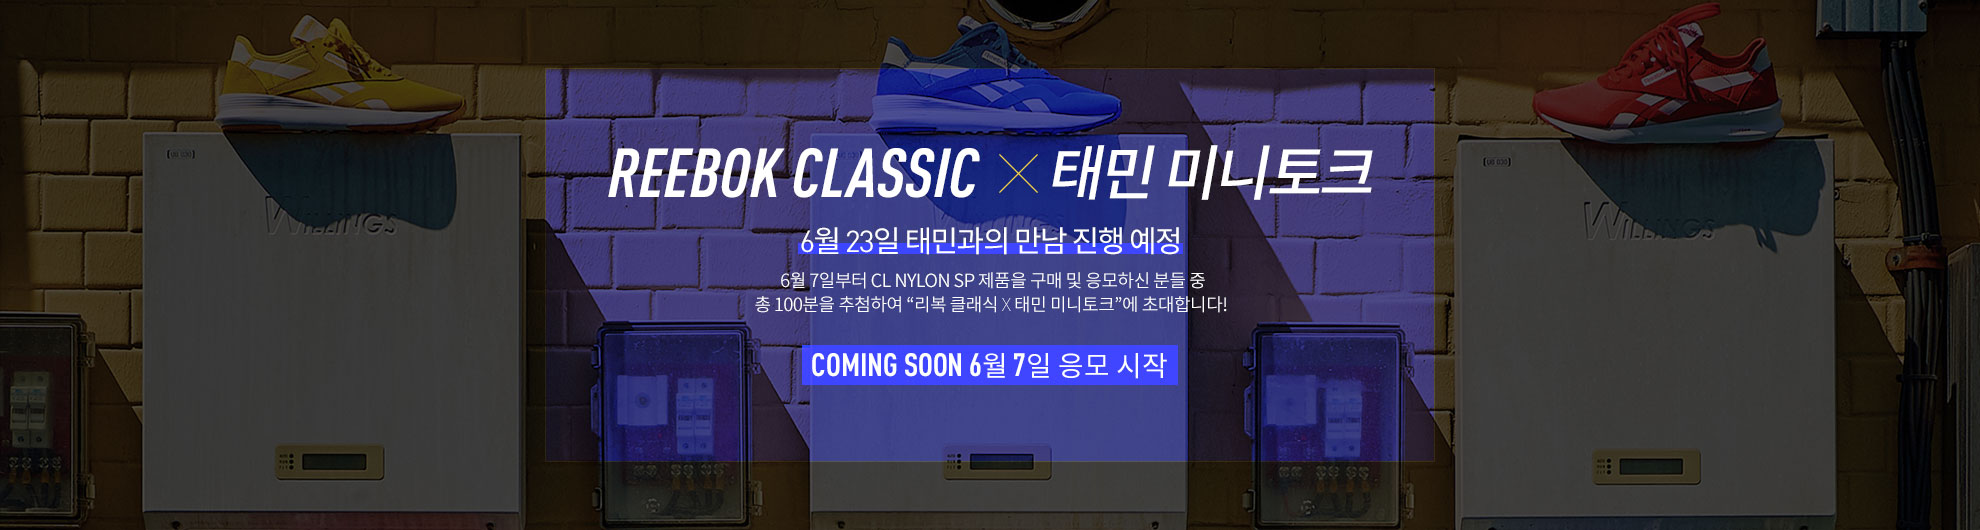
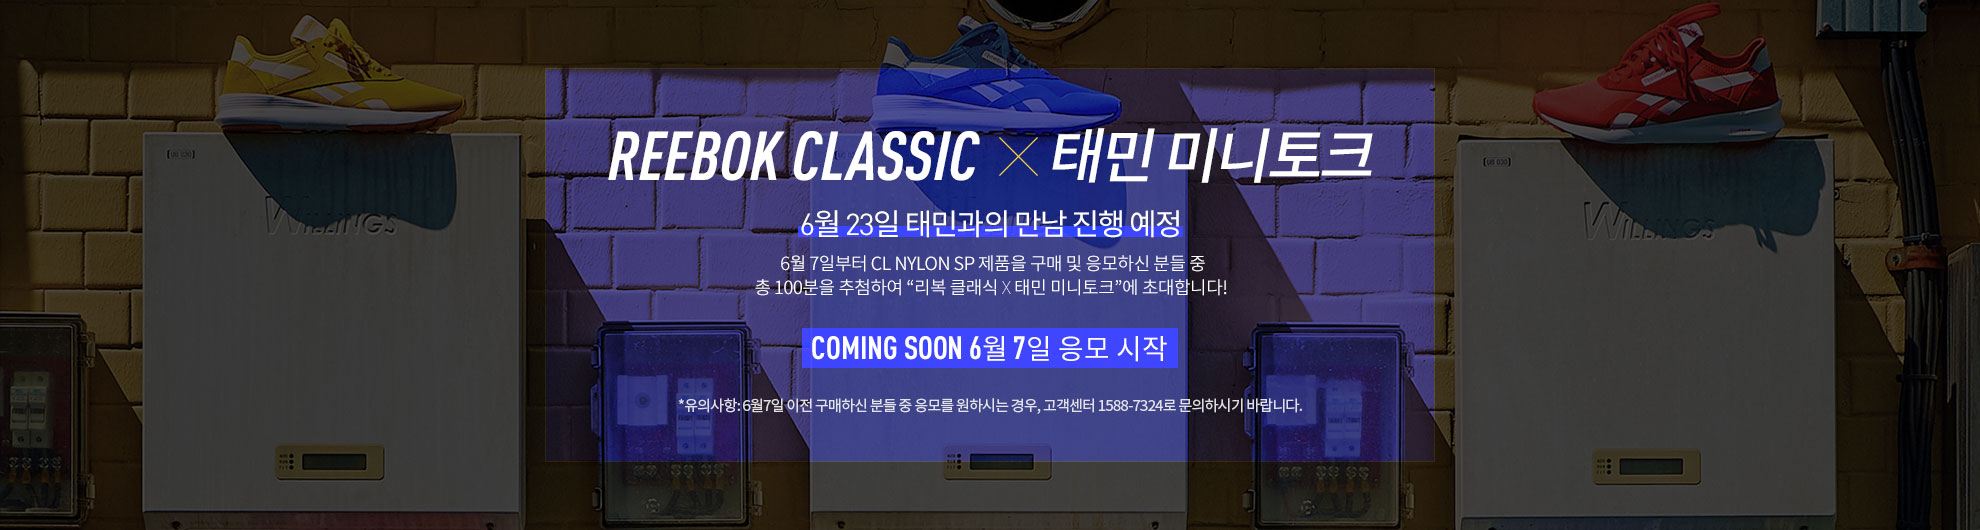
-

Changed region(s): [[0.3081, 0.2415, 0.7086, 0.7849]]

diff --git a/app/html/reebok/event/about/campaign/classic/nylon/build/index.html b/app/html/reebok/event/about/campaign/classic/nylon/build/index.html
@@ -2,7 +2,7 @@
 <html lang="ko" xml:lang="ko" id="test">
 
 <head>
-
+	
 	<meta http-equiv="Content-Type" content="text/html; charset=utf-8" />
 	<title>리복 공식 온라인 스토어 메인페이지</title>
 	<link rel="stylesheet" type="text/css" href="/css/reebok/reebok.css" />
@@ -723,6 +723,10 @@
 						</div>
 					</div>
 
+					<div class="event scrollbox">
+						<div class="bg"><img src="/images/reebok/event/about/classic/nylon/event.jpg" alt=""></div>
+					</div>
+
 					<div class="title"><img src="/images/reebok/event/about/classic/nylon/title.png" alt=""></div>
 
 					<div class="instagram_wrap scrollbox">
@@ -732,13 +736,13 @@
 							<div class="insta_slider_wrap">
 								<div class="insta_slider" id="insta_slider">
 									<ul class="slide">
-										<li class="">
+										<li class="on">
 											<img src="/images/reebok/event/about/classic/nylon/slide1.png" alt="">
 											<span style="top:219px;left:356px;"><em>1</em></span>
 											<span style="top:331px;left:207px;"><em>2</em></span>
 											<span style="top:636px;left:348px;"><em>3</em></span>
 										</li>
-										<li class="on">
+										<li>
 											<img src="/images/reebok/event/about/classic/nylon/slide2.png" alt="">
 											<span style="top:191px;left:181px;"><em>1</em></span>
 											<span style="top:647px;left:362px;"><em>2</em></span>
@@ -760,7 +764,7 @@
 							</div>
 
 							<div class="prd_list">
-								<div class="prd_wrap ">
+								<div class="prd_wrap on">
 									<div class="prd">
 										<a href="http://shop.reebok.co.kr/RPF020401.action?PROD_CD=DJ1949"></a>
 										<span class="num"><em>1</em></span>
@@ -789,7 +793,7 @@
 										</div>
 									</div>
 								</div>
-								<div class="prd_wrap on">
+								<div class="prd_wrap">
 									<div class="prd">
 										<a href="http://shop.reebok.co.kr/RPF020401.action?PROD_CD=DH1273"></a>
 										<span class="num"><em>1</em></span>
@@ -851,9 +855,7 @@
 						<div class="btn"><a href="http://shop.reebok.co.kr/RPF070801.action?pageNo=601">의류 보기<span></span></a></div>
 					</div>
 
-					<div class="event scrollbox">
-						<div class="bg"><img src="/images/reebok/event/about/classic/nylon/event.jpg" alt=""></div>
-					</div>
+
 				</div>
 
 

diff --git a/app/html/reebok/event/about/campaign/classic/nylon/index.html b/app/html/reebok/event/about/campaign/classic/nylon/index.html
@@ -721,6 +721,10 @@
 						</div>
 					</div>
 
+					<div class="event scrollbox">
+						<div class="bg"><img src="/images/reebok/event/about/classic/nylon/event.jpg" alt=""></div>
+					</div>
+
 					<div class="title"><img src="/images/reebok/event/about/classic/nylon/title.png" alt=""></div>
 
 					<div class="instagram_wrap scrollbox">
@@ -849,9 +853,7 @@
 						<div class="btn"><a href="http://shop.reebok.co.kr/RPF070801.action?pageNo=601">의류 보기<span></span></a></div>
 					</div>
 
-					<div class="event scrollbox">
-						<div class="bg"><img src="/images/reebok/event/about/classic/nylon/event.jpg" alt=""></div>
-					</div>
+
 				</div>
 
 
